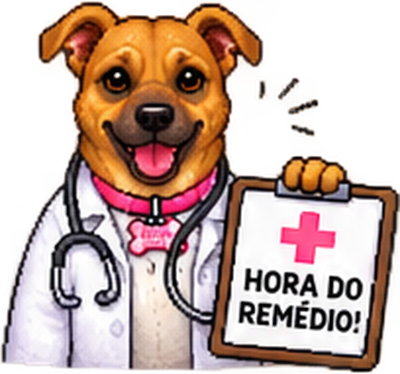
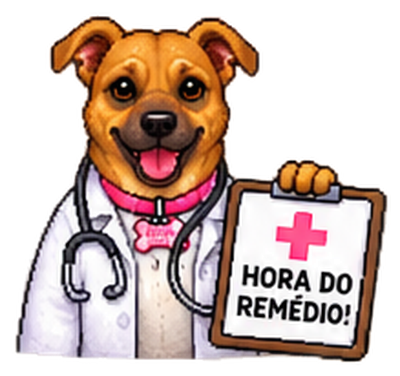
Corrige recorte que estava cortando cabeca/orelhas nas imagens hora-remedio e boas-vindas

diff --git a/web/src/utils/versao.js b/web/src/utils/versao.js
@@ -1,4 +1,4 @@
 // Atualizo esse número toda vez que envio uma mudança —
 // serve pra você confirmar se o app realmente atualizou no celular.
-export const VERSAO = '1.15.1';
-export const VERSAO_DESCRICAO = 'Novas ilustracoes da Nina (prancha com transparencia nativa)';
+export const VERSAO = '1.15.2';
+export const VERSAO_DESCRICAO = 'Corrige recorte cortado das imagens hora-remedio e boas-vindas';
